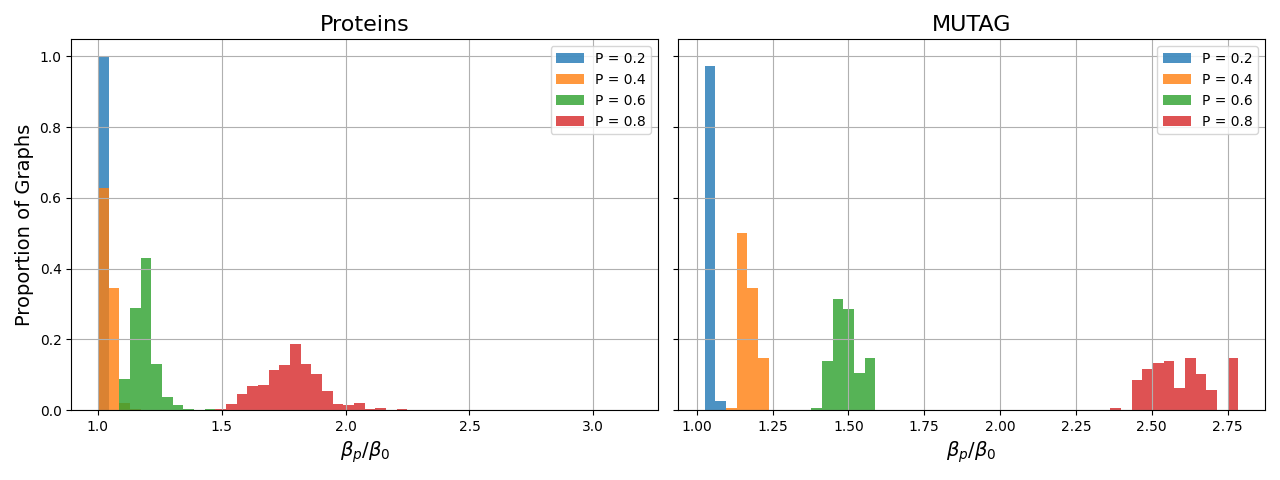
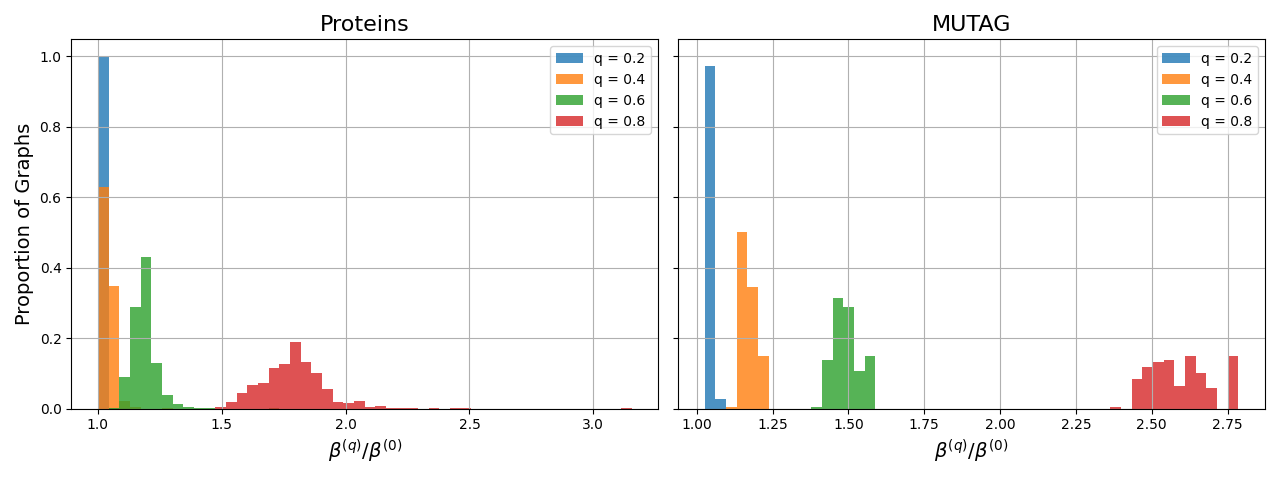
checkpointing

diff --git a/signal_propagation/measures.py b/signal_propagation/measures.py
@@ -20,7 +20,7 @@ def initialize_architecture(config):
 
     model = Model(config)
     for mp_layer in model.message_passing:
-        mp_layer.lin.weight.data = 2*torch.ones_like(mp_layer.lin.weight.data)
+        mp_layer.lin.weight.data = torch.ones_like(mp_layer.lin.weight.data)
         mp_layer.bias = None
     model.eval()
     
@@ -73,11 +73,7 @@ def main(edge_index, source):
     config.gnn_layer_sizes = [x.size(1)] * 2
     config.task_name = 'Graph-C'
 
-    # print('Effective Resistances')
-    # print('Old Implementation')
     total_resistance, old_implementation = process_graph_datum(x, edge_index, source, config, False, False, False)
-    # print('Commute Times')
-    # print('New Implementation')
     total_commute_time, new_implementation = process_graph_datum(x, edge_index, source, config, True, True, False)
     print(f'Total resistance   = ${total_resistance:.2f}$ \\\\')
     print(f'Total commute time = ${total_commute_time:.2f}$ \\\\')
@@ -156,18 +152,14 @@ if __name__ == '__main__':
 
     print('4-cycle with a source connected to all nodes')
     edge_index = torch.tensor([
-        [1, 2, 2, 3, 3, 4, 4, 1,
-         0, 0, 0, 0, 1, 2, 3, 4],
-        [2, 1, 3, 2, 4, 3, 1, 4,
-         1, 2, 3, 4, 0, 0, 0, 0]
+        [0, 0, 0, 0, 1, 1, 1, 2, 2, 2, 3, 3, 3, 4, 4, 4],
+        [1, 2, 3, 4, 0, 2, 4, 0, 1, 3, 0, 2, 4, 0, 1, 3]
     ])
     main(edge_index, source=0)
 
     print('5-chain with the source connected to the corners')
     edge_index = torch.tensor([
-        [0, 1, 1, 2, 2, 3, 3, 4,
-         2, 0, 2, 4],
-        [1, 0, 2, 1, 3, 2, 4, 3,
-         0, 2, 4, 2]
+        [0, 0, 0, 0, 1, 1, 2, 2, 3, 3, 4, 4],
+        [1, 2, 3, 4, 0, 2, 0, 1, 0, 4, 0, 3]
     ])
-    main(edge_index, source=2)
+    main(edge_index, source=0)

diff --git a/plots/metrics/synthetic_zinc.py b/plots/metrics/synthetic_zinc.py
@@ -58,7 +58,7 @@ for p in ps:
         means.append(np.mean(metrics))
         stds.append(np.std(metrics))
     means, stds = map(np.array, (means, stds))
-    ax.plot(alphas, means, color=color, label=f'P = {p:.1f}')
+    ax.plot(alphas, means, color=color, label=f'q = {p:.1f}')
     # ax.fill_between(alphas, means-stds, means+stds, color=color, alpha=0.2)
 ax.set_xlabel(r'$\alpha$', fontsize=14)
 ax.set_ylabel(f"Training {''.join(map(lambda x: x[0], args.metric.split()))}", fontsize=14)
@@ -86,7 +86,7 @@ for p in ps:
         means.append(np.mean(metrics))
         stds.append(np.std(metrics))
     means, stds = map(np.array, (means, stds))
-    ax.plot(alphas, means, color=color, label=f'P = {p:.1f}')
+    ax.plot(alphas, means, color=color, label=f'q = {p:.1f}')
     # ax.fill_between(alphas, means-stds, means+stds, color=color, alpha=0.2)
 ax.set_xlabel(r'$\alpha$', fontsize=14)
 ax.set_ylabel(f"Testing {''.join(map(lambda x: x[0], args.metric.split()))}", fontsize=14)
@@ -114,7 +114,7 @@ for p in ps:
         means.append(np.mean(metrics))
         stds.append(np.std(metrics))
     means, stds = map(np.array, (means, stds))
-    ax.plot(alphas, means, color=color, label=f'P = {p:.1f}')
+    ax.plot(alphas, means, color=color, label=f'q = {p:.1f}')
     # ax.fill_between(alphas, means-stds, means+stds, color=color, alpha=0.2)
 ax.set_xlabel(r'$\alpha$', fontsize=14)
 ax.set_ylabel(f"Generalization Gap in {''.join(map(lambda x: x[0], args.metric.split()))}", fontsize=14)

diff --git a/plots/linear_gcn/black_extension.py b/plots/linear_gcn/black_extension.py
@@ -53,10 +53,14 @@ for m in tqdm(range(MOLECULE_SAMPLES)):
         
         non_diag = non_diag.unsqueeze(dim=1).repeat(1, degrees.size(0)) * A
         diag = torch.diag(diag)
-        P_p = torch.where(diag>0., diag, non_diag)
-        P_p_L = torch.matrix_power(P_p, L).flatten()
+        P = torch.where(diag>0., diag, non_diag)
+        P_l = torch.eye(P.size(0))
+        P_L = P_l.clone()
+        for l in range(1, L+1):
+            P_l = P @ P_l
+            P_L += P_l
         
-        y_sd = bin_jac_norms(P_p_L, shortest_distances, x_sd, agg='mean')
+        y_sd = bin_jac_norms(P_L, shortest_distances, x_sd, agg='mean')
         sum_sensitivity[p][m, x_sd] += y_sd
         count_sensitivity[p][m, x_sd] += 1
 
@@ -70,13 +74,13 @@ for p in ps:
 
 ax.set_yscale('log')
 ax.set_xlabel('Shortest Distance', fontsize=14)
-ax.set_ylabel(rf'$\left(\mathbb{{E}}\left[\hat{{A}}^{{asym}}\right]^{{{L}}}\right)_{{ij}}$', fontsize=14)
+ax.set_ylabel(rf'$\sum_{{\ell=0}}^{{6}} \left(\mathbb{{E}}\left[\hat{{A}}^{{asym}}\right]^{{\ell}}\right)_{{ij}}$', fontsize=14)
 ax.set_title(args.dataset, fontsize=14)
 ax.grid()
 
 handles, labels = ax.get_legend_handles_labels()
 fig.legend(handles, labels, loc='lower center', ncol=5, bbox_to_anchor = (0, -0.07, 1, 1))
 fig.tight_layout()
-fn = f'./assets/linear-gcn/asymmetric/{args.dataset}.png'
+fn = f'./assets/linear-gcn/black_extension/{args.dataset}.png'
 os.makedirs(os.path.dirname(fn), exist_ok=True)
 plt.savefig(fn, bbox_inches='tight')

diff --git a/plots/beta/i.py b/plots/beta/i.py
@@ -15,7 +15,7 @@ for degree, y in zip(degrees, ys):
 
 ax.set_yticks(yticks, yticks)
 ax.set_xlabel('DropEdge Probability', fontsize=14)
-ax.set_ylabel(r'$\beta_p^{(i)}$', fontsize=14)
+ax.set_ylabel(r'$\beta_i^{(q)}$', fontsize=14)
 ax.grid()
 ax.legend()
 
@@ -26,7 +26,7 @@ for degree, y in zip(degrees, ys-degrees[:,None]):
 yticks = yticks[:-1]
 ax.set_yticks(yticks, yticks)
 ax.set_xlabel('DropEdge Probability', fontsize=14)
-ax.set_ylabel(r'$\beta_p^{(i)}-\beta_0^{(i)}$', fontsize=14)
+ax.set_ylabel(r'$\beta_i^{(q)}-\beta_i^{(0)}$', fontsize=14)
 ax.grid()
 ax.legend()
 
@@ -36,7 +36,7 @@ for degree, y in zip(degrees, ys/degrees[:,None]):
 
 ax.set_yticks(yticks, yticks)
 ax.set_xlabel('DropEdge Probability', fontsize=14)
-ax.set_ylabel(r'$\beta_p^{(i)}/\beta_0^{(i)}$', fontsize=14)
+ax.set_ylabel(r'$\beta_i^{(q)}/\beta_i^{(0)}$', fontsize=14)
 ax.grid()
 ax.legend()
 

diff --git a/sensitivity/plot/betas.py b/sensitivity/plot/betas.py
@@ -14,11 +14,11 @@ for i, P in zip(indices, Ps):
     
     heights, bin_edges = torch.histogram(betas, bins=10)
     widths = torch.diff(bin_edges)
-    axs_bar.bar(bin_edges[:-1], heights, width=widths, edgecolor='black', align='edge', label=f'P = {P:.2f}')
+    axs_bar.bar(bin_edges[:-1], heights, width=widths, edgecolor='black', align='edge', label=f'q = {P:.2f}')
     
     bin_centers = bin_edges[:-1] + widths/2
     heights, bin_centers = map(lambda x: x[heights!=0.], (heights, bin_centers))
-    axs_plot.plot(bin_centers, heights, label=f'P = {P:.2f}')
+    axs_plot.plot(bin_centers, heights, label=f'q = {P:.2f}')
 
 for axs in (axs_bar, axs_plot):
     axs.set_xlabel(r'$\beta_P/\beta_0$')

diff --git a/plots/beta/dist.py b/plots/beta/dist.py
@@ -35,10 +35,10 @@ for dataset_name, ax in zip(datasets, axs):
     for P, ratio in zip(Ps, ratios):
         counts, bin_edges = torch.histogram(ratio, bins=50, range=range)
         bin_mids = (bin_edges[:-1] + bin_edges[1:]) / 2
-        ax.bar(bin_mids, counts/len(ratio), width=bin_edges.diff(), label=f'P = {P}', alpha=0.8)
+        ax.bar(bin_mids, counts/len(ratio), width=bin_edges.diff(), label=f'q = {P}', alpha=0.8)
 
     ax.set_title(dataset_name.split('_')[0], fontsize=16)
-    ax.set_xlabel(r'$\beta_p/\beta_0$', fontsize=14)
+    ax.set_xlabel(r'$\beta^{\left(q\right)}/\beta^{\left(0\right)}$', fontsize=14)
     axs[0].set_ylabel('Proportion of Graphs', fontsize=14)
 
     ax.grid()

diff --git a/sensitivity/plot/correlation.py b/sensitivity/plot/correlation.py
@@ -71,7 +71,7 @@ for P_dir in tqdm(os.listdir(models_dir)):
             print(f'Skipping {metric_name} for P = {P}')
             continue
         mean, std = np.mean(ys[metric_name], axis=0), np.std(ys[metric_name], axis=0)
-        p = ax.plot(x, mean, label=f'P = {P}')
+        p = ax.plot(x, mean, label=f'q = {P}')
         ax.fill_between(x, mean-std, mean+std, color=p[-1].get_color(), alpha=0.2)
         # ax.scatter(x[markers], y[markers], color=p[-1].get_color())
         # ax.scatter(x[~markers], y[~markers], facecolors='none', edgecolors=p[-1].get_color())

diff --git a/sensitivity/plot/sensitivity/ct.py b/sensitivity/plot/sensitivity/ct.py
@@ -62,7 +62,7 @@ for trained, ax in zip(('untrained', 'trained'), axs):
         if k != 0.:
             delta = 100 * (v / mean_jac_norms[0] - 1.)
             delta[delta>1000.] = torch.nan
-            ax.plot(torch.arange(v.size(0))*BIN_SIZE, delta, label=f'P = {k/100:.1f}')
+            ax.plot(torch.arange(v.size(0))*BIN_SIZE, delta, label=f'q = {k/100:.1f}')
 
     ax.set_xlabel('Commute Times')
     ax.set_ylabel('Sensitivity Change (%)')

diff --git a/sensitivity/plot/sensitivity/sd_hist.py b/sensitivity/plot/sensitivity/sd_hist.py
@@ -53,7 +53,7 @@ for trained, ax in zip(('untrained', 'trained'), axs):
             delta = v / mean_jac_norms[0] - 1.
             delta[delta>1000.] = torch.nan
             x_sd, = torch.where(~delta.isnan())
-            ax.plot(x_sd, delta[x_sd], label=f'P = {k/100:.1f}')
+            ax.plot(x_sd, delta[x_sd], label=f'q = {k/100:.1f}')
 
     ax.set_xlabel('Shortest Distances')
     ax.set_ylabel('Sensitivity Change')

diff --git a/sensitivity/plot/sensitivity/jac_norm_vs_ct.py b/sensitivity/plot/sensitivity/jac_norm_vs_ct.py
@@ -75,7 +75,7 @@ for trained in ('untrained', 'trained'):
         mask = mean-std > 0
         x_ct, mean, std = map(lambda x: x[mask], (x_ct, mean, std))
         xlim = max(xlim, x_ct.max().item())
-        p = ax.plot(x_ct, mean, label=f'P = {P}')
+        p = ax.plot(x_ct, mean, label=f'q = {P}')
         # ax.fill_between(x_ct, mean-std, mean+std, alpha=0.2)
 
     ax.set_xlim(xmax=min(600, xlim))

diff --git a/sensitivity/plot/sensitivity/jac_norm_vs_sd.py b/sensitivity/plot/sensitivity/jac_norm_vs_sd.py
@@ -58,7 +58,7 @@ for trained in ('untrained', 'trained'):
         else:
             std, mean = torch.std_mean(torch.stack(mean_jac_norms, dim=0), dim=0)
         x = torch.arange(mean.size(0))
-        p = ax.plot(x, mean, label=f'P = {P}')
+        p = ax.plot(x, mean, label=f'q = {P}')
         ax.fill_between(x, mean-std, mean+std, alpha=0.2)
 
     ax.set_xlabel('Shortest Distances')

diff --git a/plots/linear_gcn/asymmetric_emp.py b/plots/linear_gcn/asymmetric_emp.py
@@ -73,7 +73,7 @@ for p in ps:
     dim_to_keep = (count_sensitivity[p]>0).any(dim=0)
     x = torch.where(dim_to_keep)[0]
     y = sum_sensitivity[p][:, dim_to_keep].sum(dim=0) / count_sensitivity[p][:, dim_to_keep].sum(dim=0)
-    ax.plot(x, y, label=f'P = {p:.1f}')
+    ax.plot(x, y, label=f'q = {p:.1f}')
 
 ax.set_yscale('log')
 ax.set_xlabel('Shortest Distance', fontsize=14)
